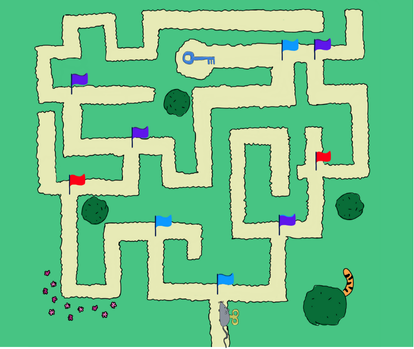
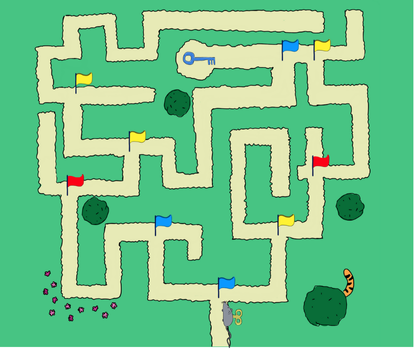
replace purple with yellow

diff --git a/tasks/exercise6.js b/tasks/exercise6.js
@@ -9,7 +9,7 @@ class Exercise6 extends Exercise {
 
   validColors = [
     hebrewDict.colors.blue,
-    hebrewDict.colors.purple,
+    hebrewDict.colors.yellow,
     hebrewDict.colors.red,
   ];
 
@@ -34,7 +34,7 @@ class Exercise6 extends Exercise {
       })); 
       fields = fields.concat(this.createFieldDisplayDetails({
         field_type: 'text',
-        pretext: `${hebrewDict.if} ${hebrewDict.ex6.flag}==${hebrewDict.colors.purple}`, 
+        pretext: `${hebrewDict.if} ${hebrewDict.ex6.flag}==${hebrewDict.colors.yellow}`, 
         posttext: ":",
       })); 
       fields = fields.concat(this.createFieldDisplayDetails({
@@ -83,10 +83,10 @@ class Exercise6 extends Exercise {
 
   composeImageHtml(colors_directions) {
     const blue_dir = this.getDirectionKey(colors_directions[hebrewDict.colors.blue]);
-    const purple_dir = this.getDirectionKey(colors_directions[hebrewDict.colors.purple]);
+    const yellow_dir = this.getDirectionKey(colors_directions[hebrewDict.colors.yellow]);
     const red_dir = this.getDirectionKey(colors_directions[hebrewDict.colors.red]);
 
-    const route_img = this.path(`b${blue_dir}_p${purple_dir}_r${red_dir}.png`);
+    const route_img = this.path(`b${blue_dir}_y${yellow_dir}_r${red_dir}.png`);
     
     return this.generateImageHTML([this.path("maze.png"), route_img]);
   }
@@ -111,7 +111,7 @@ class Exercise6 extends Exercise {
     if (this.level === 'easy') {
       let arr = Array.from(inputs).map(i => i.value.trim());
       colors_directions[0] = {color: hebrewDict.colors.blue, direction: arr[0]};
-      colors_directions[1] = {color: hebrewDict.colors.purple, direction: arr[1]};
+      colors_directions[1] = {color: hebrewDict.colors.yellow, direction: arr[1]};
       colors_directions[2] = {color: hebrewDict.colors.red, direction: arr[2]};
     }
     else {
@@ -131,7 +131,7 @@ class Exercise6 extends Exercise {
 
   isCorrect() {
     if (this.colors_directions[hebrewDict.colors.blue] == hebrewDict.ex6.left
-      && this.colors_directions[hebrewDict.colors.purple] == hebrewDict.ex6.right
+      && this.colors_directions[hebrewDict.colors.yellow] == hebrewDict.ex6.right
       && this.colors_directions[hebrewDict.colors.red] == hebrewDict.ex6.right) {
         return { valid: true, message: hebrewDict.ex6.success };
     }
